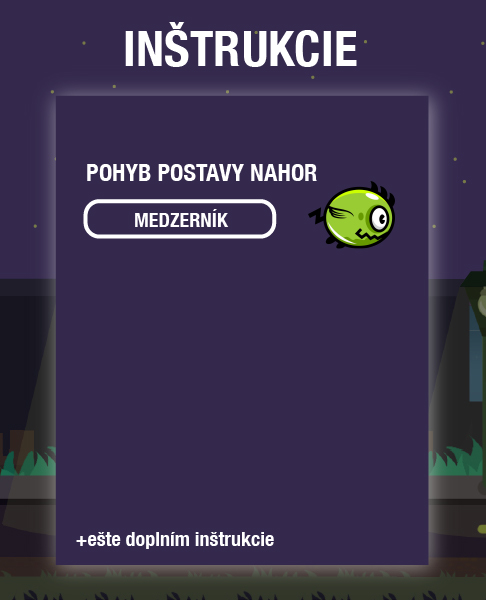
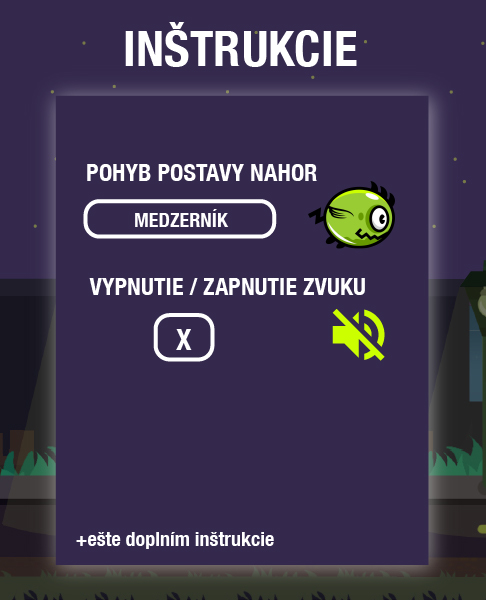
Grafické prvky úprava

Changed region(s): [[0.1852, 0.45, 0.8025, 0.63]]

diff --git a/js/Vtak.js b/js/Vtak.js
@@ -23,7 +23,13 @@ const Vtak = function (x,y,ctx) {
         }
 
         if(klavesa.keyCode === 88){ //ovládanie pomocou MEDZERNIKA + treba pridať W alebo myš.
-            stop.hudbaPoz= false;
+            if(stop.hudbaPoz){
+                stop.hudbaPoz= false;
+            } else {
+                stop.hudbaPoz = true;
+            }
+
+
 
         }
 

diff --git a/js/main.js b/js/main.js
@@ -48,8 +48,7 @@ window.onload = function () {
             if(vtak.hudbaPoz){
                 hudbaPozadie.play();
             }
-
-            if(vtak.hudbaPoz ===false){
+            if(!vtak.hudbaPoz ){
                 hudbaPozadie.pause();
             }
 
